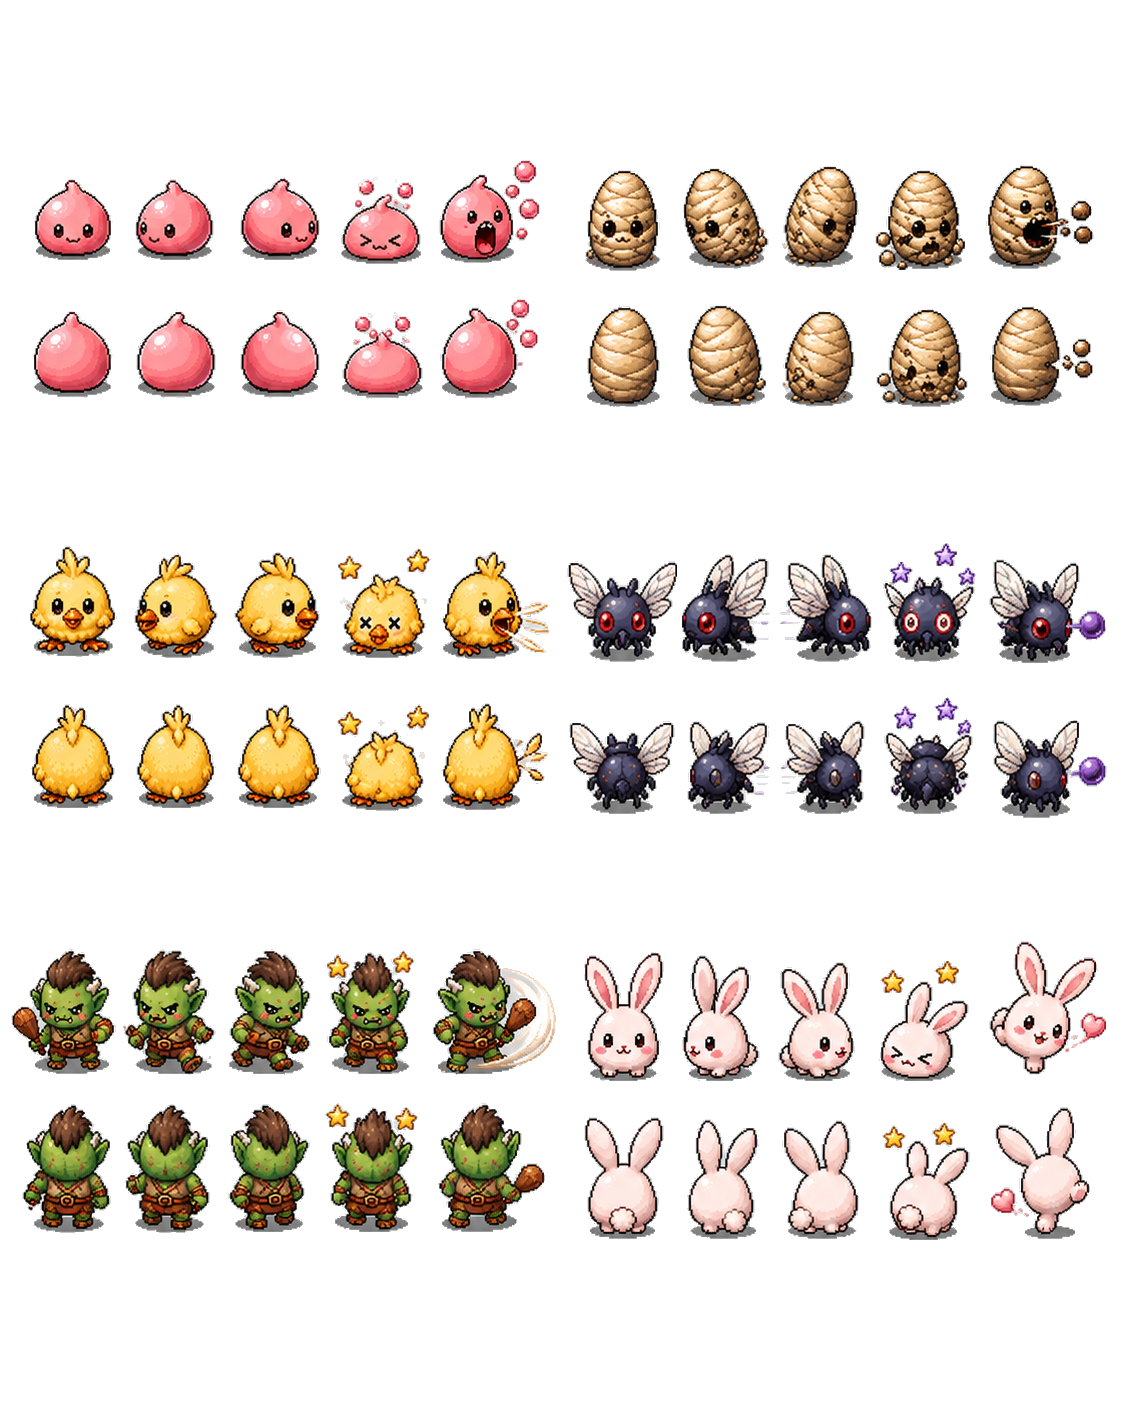
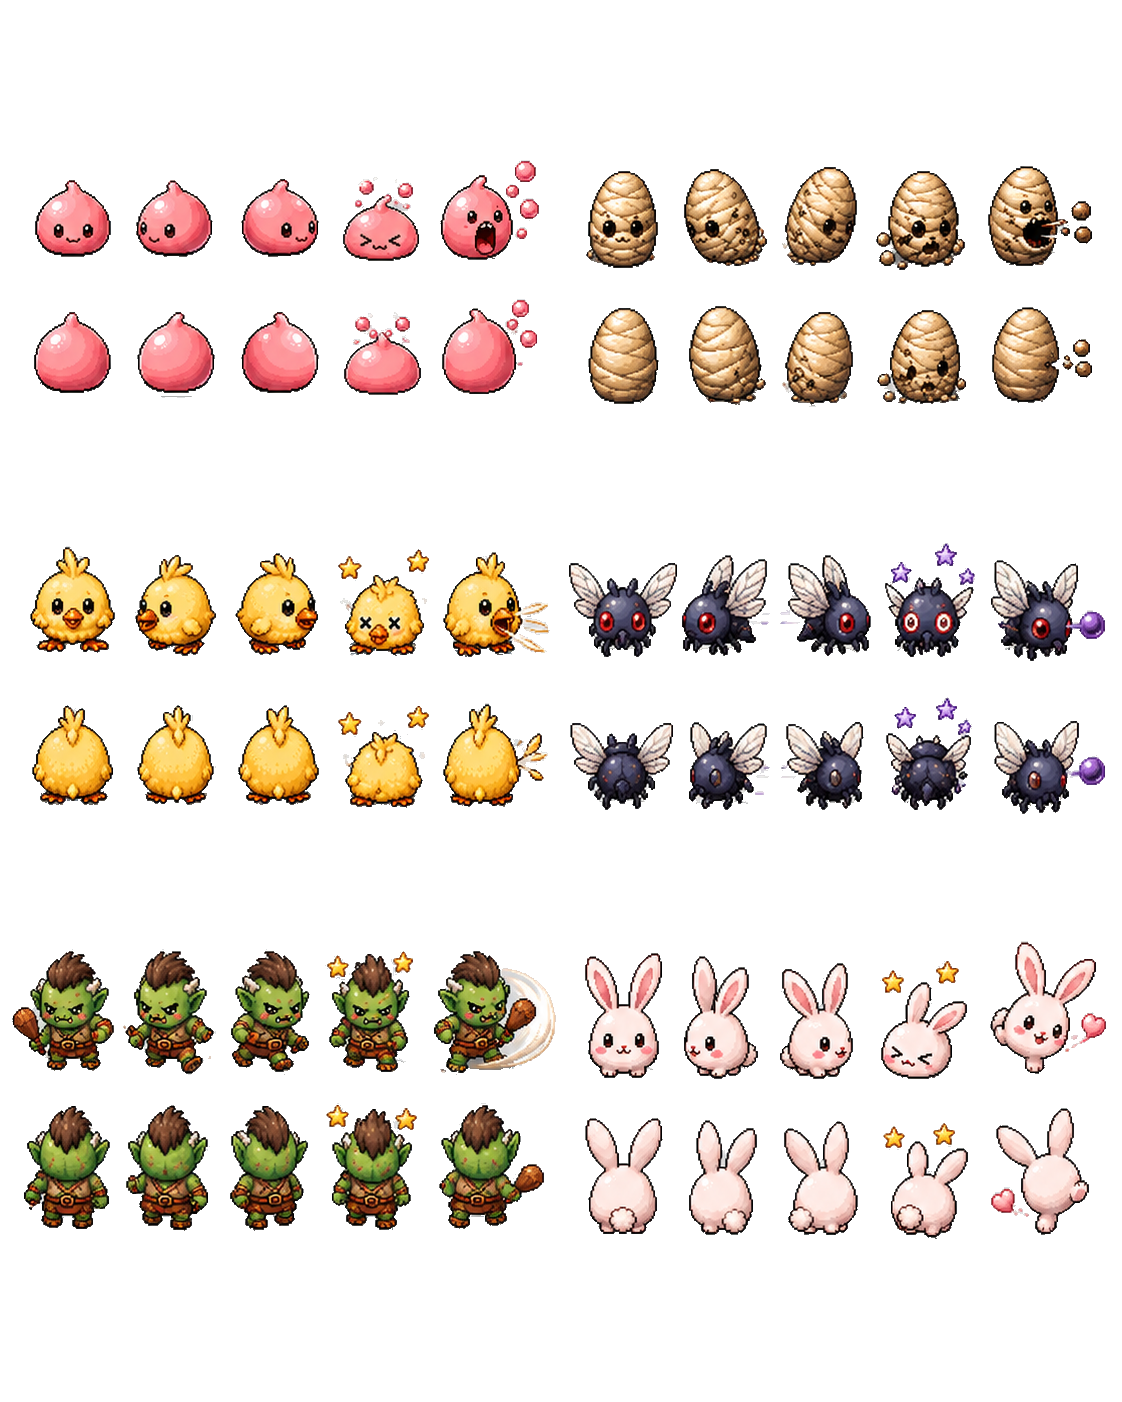
Clean the white outline fringe and ground shadows off the Prontera V3 mobs
The six level 1 mobs (Poring, Pupa, Picky, Chonchon, Orc Baby, Lunatic)
showed a 1-2 px light gray/white rim outside their dark outline (the GPT
source antialiased against its light matte) and a gray ellipse under the
feet. On the dark playfield both read as white borders.

tools/slice-prontera-v3.py gets a clean_edges() pass after decontamination:
- fringe: an edge pixel is removed when it touches transparency, is light
  and nearly neutral, and has dark outline ink within 2 px. The outline
  separates the rim from the body, so light bodies (Lunatic's white fur,
  Chonchon's wings) are not touched. 18 951 px removed.
- shadow: flood from transparency through neutral, matte-toned pixels in the
  foot strip (this sheet's matte is light, 209, so shadows sit at -99..-59),
  then drop small detached neutral specks left from the ellipse rim. Colored
  crumbs such as Pupa's pebbles are kept. 25 762 px removed.

Rects are unchanged (the manifest and report are byte-identical); only alpha
changed in monsters-v3.png. art-clean/prontera-gpt/qa/edges-before-after.png
shows the result.

Tests: test-static 63/63, all nine Prontera V3 checks included.

diff --git a/tools/slice-prontera-v3.py b/tools/slice-prontera-v3.py
@@ -751,6 +751,131 @@ def draw_contact(img, rects, path, cols=6):
     encode_rgba(path, W, H, out)
 
 
+# ---------------- outline fringe + ground shadow (2026-11-21) ----------------
+# After keying, every V3 sprite still showed (a) a 1-2 px light gray/white rim
+# OUTSIDE its dark outline (the source's antialiasing against the light matte)
+# and (b) a soft gray ellipse under the feet. Both read as "white borders" on
+# the dark playfield.
+# (a) Fringe: an opaque pixel is removed when it touches transparency, is
+#     light and nearly neutral, and has dark outline ink within 2 px. The dark
+#     outline separates the rim from the body, so light bodies (Lunatic's white
+#     fur) are never reached. Two passes cover a 2 px rim.
+# (b) Shadow: flood from transparency through neutral, matte-toned pixels, only
+#     inside the foot strip (same method as tools/slice-thanatos.py).
+FRINGE_LUM_MIN = 150
+FRINGE_CHROMA_MAX = 30
+INK_LUM_MAX = 90
+SHADOW_STRIP = 40
+SHADOW_CHROMA = 12
+SPECK_MAX = 40          # detached foot-strip specks up to this size are shadow rim
+SPECK_CHROMA = 25
+SHADOW_LUM = (-105, -40) # relative to the keyed matte (209): shadows measure 110-150, i.e. -99..-59
+
+
+def clean_edges(img, r, bg):
+    W, H, X, Y, IW, d = r['w'], r['h'], r['x'], r['y'], img.w, img.px
+
+    def idx(x, y):
+        return ((Y + y) * IW + X + x) * 4
+
+    def opaque(x, y):
+        return 0 <= x < W and 0 <= y < H and d[idx(x, y) + 3] > 128
+
+    def lum_chroma(x, y):
+        i = idx(x, y)
+        R, G, B = d[i], d[i + 1], d[i + 2]
+        return (R + G + B) / 3, max(R, G, B) - min(R, G, B)
+
+    removed_fringe = 0
+    for _ in range(2):
+        kill = []
+        for y in range(H):
+            for x in range(W):
+                if not opaque(x, y):
+                    continue
+                if all(opaque(x + dx, y + dy) for dx, dy in ((1, 0), (-1, 0), (0, 1), (0, -1))):
+                    continue  # interior pixel
+                L, C = lum_chroma(x, y)
+                if L < FRINGE_LUM_MIN or C > FRINGE_CHROMA_MAX:
+                    continue
+                ink = False
+                for dy in range(-2, 3):
+                    for dx in range(-2, 3):
+                        if (dx or dy) and opaque(x + dx, y + dy) and lum_chroma(x + dx, y + dy)[0] < INK_LUM_MAX:
+                            ink = True
+                            break
+                    if ink:
+                        break
+                if ink:
+                    kill.append((x, y))
+        for (x, y) in kill:
+            d[idx(x, y) + 3] = 0
+        removed_fringe += len(kill)
+        if not kill:
+            break
+
+    bgl = sum(bg) / 3
+    y_top = max(0, H - SHADOW_STRIP)
+
+    def shadowy(x, y):
+        if not opaque(x, y):
+            return False
+        L, C = lum_chroma(x, y)
+        return C <= SHADOW_CHROMA and SHADOW_LUM[0] <= L - bgl <= SHADOW_LUM[1]
+
+    seen = bytearray(W * H)
+    q = deque()
+    for y in range(y_top, H):
+        for x in range(W):
+            if seen[y * W + x] or not shadowy(x, y):
+                continue
+            edge = x in (0, W - 1) or y == H - 1 or any(
+                not opaque(x + dx, y + dy) for dx, dy in ((1, 0), (-1, 0), (0, 1), (0, -1)))
+            if edge:
+                seen[y * W + x] = 1
+                q.append((x, y))
+    removed_shadow = 0
+    while q:
+        x, y = q.popleft()
+        d[idx(x, y) + 3] = 0
+        removed_shadow += 1
+        for nx, ny in ((x - 1, y), (x + 1, y), (x, y - 1), (x, y + 1)):
+            if y_top <= ny < H and 0 <= nx < W and not seen[ny * W + nx] and shadowy(nx, ny):
+                seen[ny * W + nx] = 1
+                q.append((nx, ny))
+    # the shadow ellipse's darker rim survives as a dotted line: drop small,
+    # detached, neutral specks that lie entirely in the foot strip (colored
+    # crumbs like Pupa's pebbles have chroma and are kept)
+    comp = [0] * (W * H)
+    label = 0
+    for y in range(y_top, H):
+        for x in range(W):
+            if comp[y * W + x] or not opaque(x, y):
+                continue
+            label += 1
+            members, inside, neutral = [], True, True
+            qq = deque([(x, y)])
+            comp[y * W + x] = label
+            while qq:
+                cx, cy = qq.popleft()
+                members.append((cx, cy))
+                if cy < y_top:
+                    inside = False
+                if lum_chroma(cx, cy)[1] > SPECK_CHROMA:
+                    neutral = False
+                if len(members) > SPECK_MAX:
+                    inside = False
+                for nx, ny in ((cx - 1, cy), (cx + 1, cy), (cx, cy - 1), (cx, cy + 1)):
+                    if opaque(nx, ny) and not comp[ny * W + nx]:
+                        comp[ny * W + nx] = label
+                        qq.append((nx, ny))
+            if inside and neutral:
+                for (mx, my) in members:
+                    d[idx(mx, my) + 3] = 0
+                removed_shadow += len(members)
+    return removed_fringe, removed_shadow
+
+
 def main():
     if not os.path.exists(SRC):
         print(f'missing source: {SRC}')
@@ -797,6 +922,12 @@ def main():
              for n in IDS for s in SIDES for p in POSES if n in entries]
     stats = {}
     decontaminate(img, bg, rects, errors, stats)
+    fr_tot = sh_tot = 0
+    for (t, r, _h) in rects:
+        fr, sh = clean_edges(img, r, bg)
+        fr_tot += fr
+        sh_tot += sh
+    print(f'edges: outline fringe removed {fr_tot} px, ground shadow removed {sh_tot} px')
     validate_clean(stats, errors)
     if errors:
         print('ERRORS (gates rejected these crops — nothing was written):')
